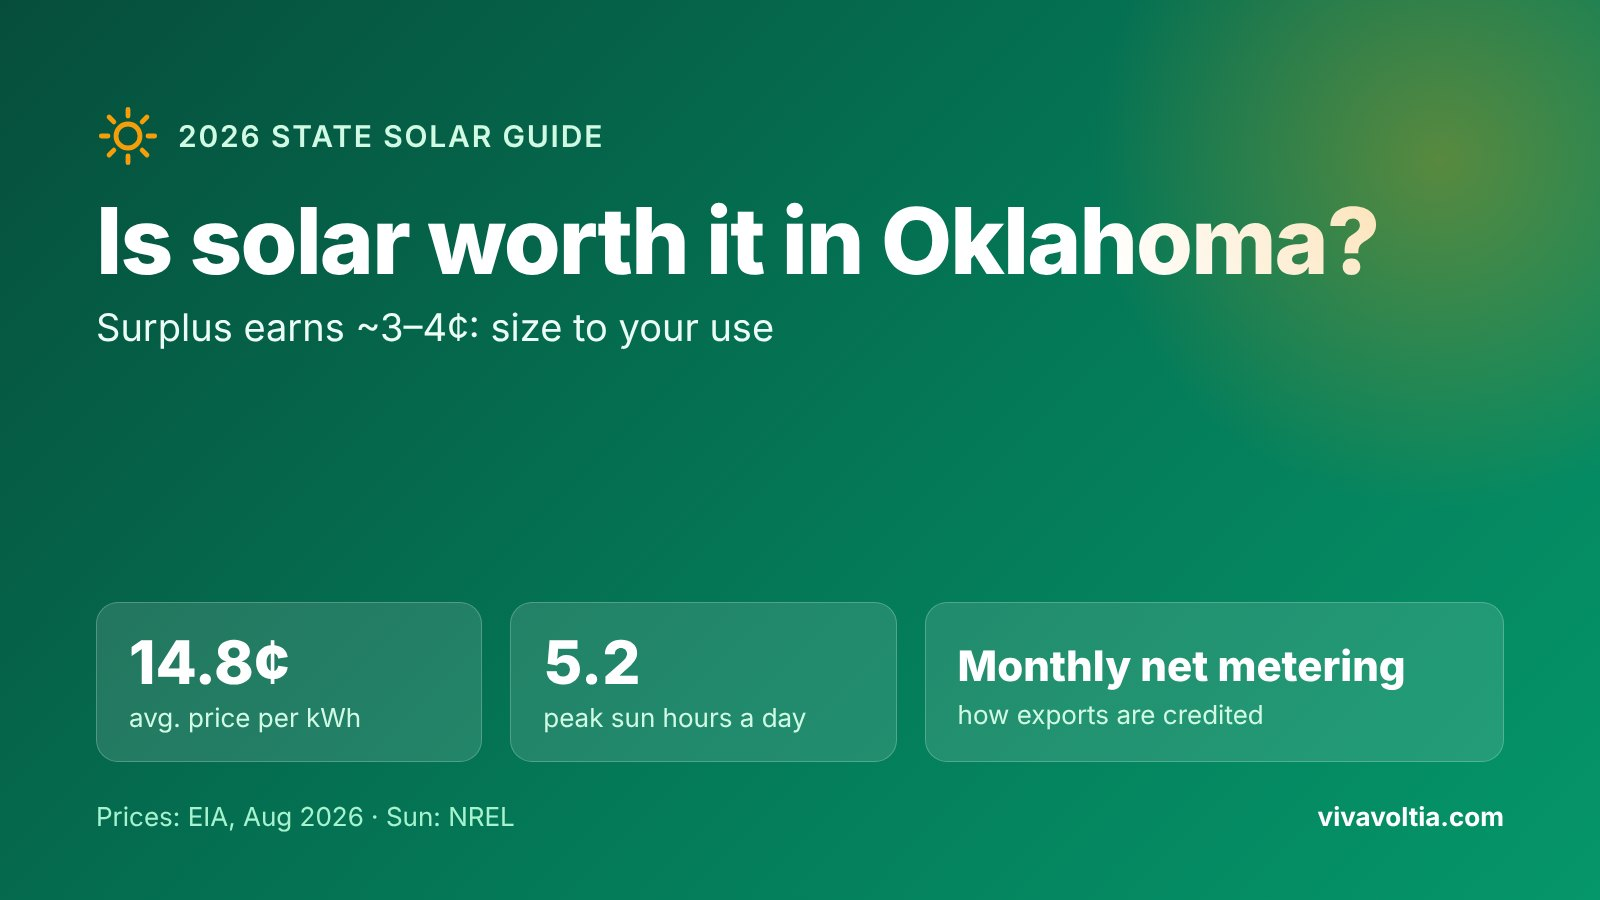
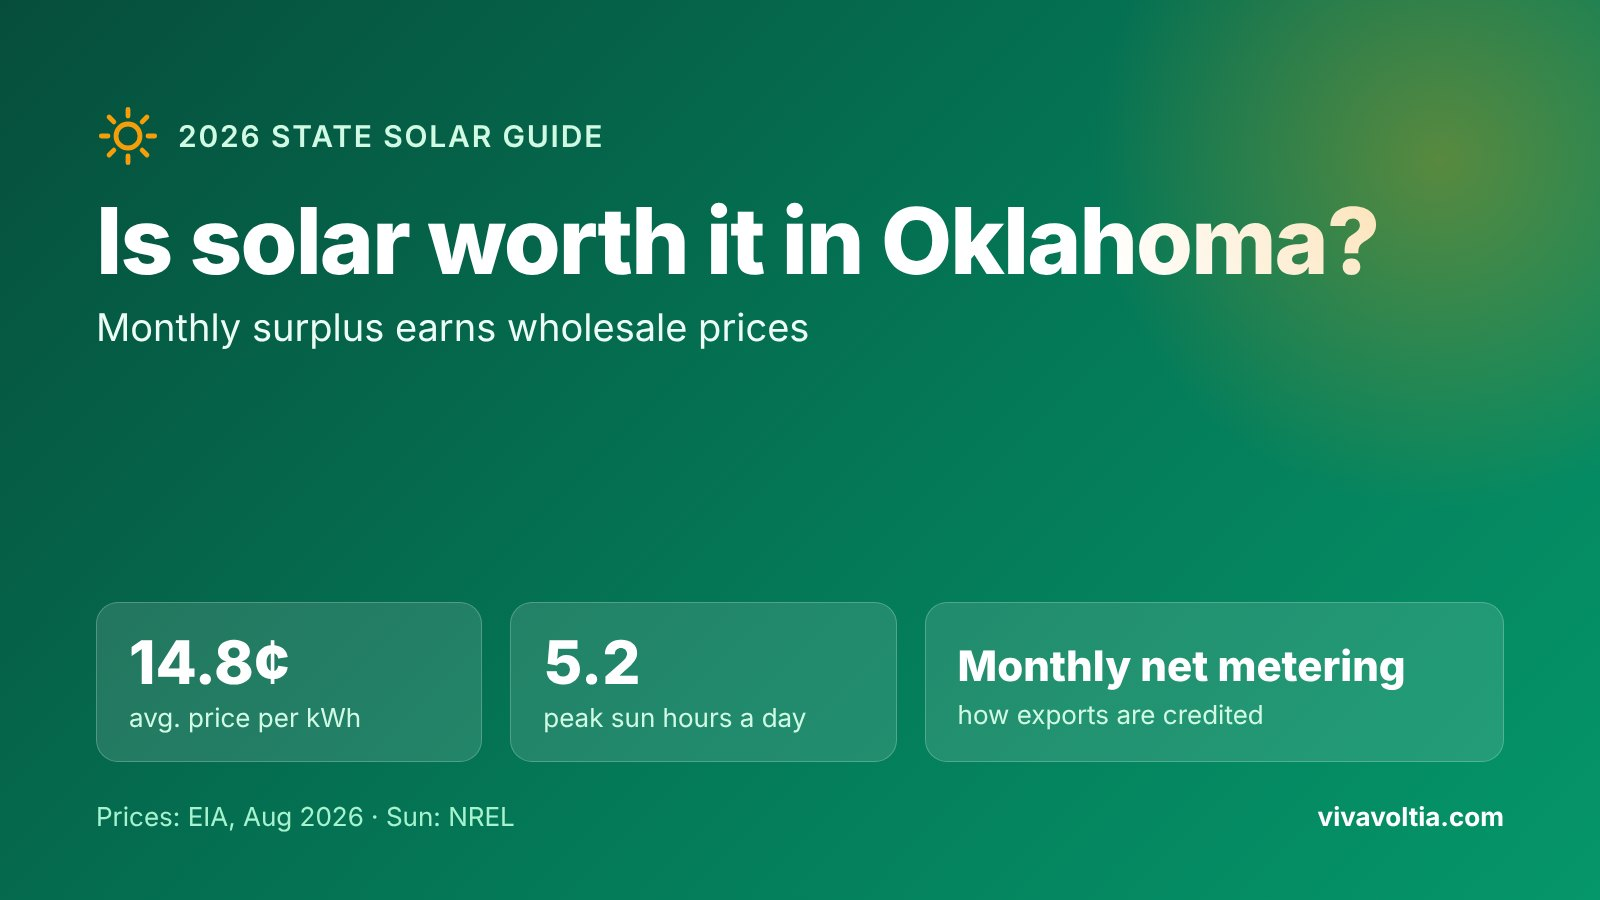
State guides: verify OK, AL, ID figures against official tariffs and orders
Idaho: Schedule 6 rates and Order 36785 terms (40% cap, effective Oct 2025,
frozen until 2028). Alabama: Rate PAE April 2026 prices (4.2c average).
Oklahoma: describe surplus credit as monthly wholesale-based avoided cost.

Claude-Session: https://claude.ai/code/session_016bTKu1uezcBbYBAuuHwazr

Changed region(s): [[0.0625, 0.3422, 0.5, 0.4044]]

diff --git a/content/articles/is-solar-worth-it-oklahoma.html b/content/articles/is-solar-worth-it-oklahoma.html
@@ -7,7 +7,7 @@ keyword: is solar worth it in Oklahoma
 category: costs
 state_code: OK
 payback: 11-13
-state_policy: Monthly net metering; surplus at avoided cost (~3–4¢)
+state_policy: Monthly net metering; surplus at wholesale avoided cost
 published: 2026-11-08
 updated: 2026-11-08
 order: 4
@@ -15,7 +15,7 @@ image: state-oklahoma.jpg
 image_alt: Oklahoma solar at a glance: 14.8 cents per kWh, about 5.2 peak sun hours, monthly net metering with surplus bought at avoided cost
 takeaway: Oklahoma's average residential price was about 14.8¢/kWh in August 2026, below the US average, but the state gets about 5.2 peak sun hours a day.
 takeaway: OG&E and PSO net solar against your use over each monthly billing period, so most of your solar is worth the full retail rate.
-takeaway: Solar left over at the end of the month is bought at the utility's avoided cost, roughly 3–4¢ per kWh, so oversizing does not pay.
+takeaway: Solar left over at the end of the month earns the utility's avoided cost, a wholesale-based price that changes monthly and is usually a few cents per kWh, so oversizing does not pay.
 takeaway: A system sized to your use typically pays back in about 11–13 years in 2026, with no state tax credit or federal credit.
 source: EIA – Electric Power Monthly, average price by state | https://www.eia.gov/electricity/monthly/epm_table_grapher.php?t=epmt_5_6_a
 source: OG&E – Net Energy Billing Option (NEBO) tariff | https://www.oge.com/documents/d/portal/70-10-nebo-net-energy-billing-option-stamped-approved-20200101-update-pdf
@@ -36,7 +36,7 @@ related: is-solar-worth-it-texas
         <tr><td>Peak sun hours (statewide average)</td><td>About 5.2 per day</td></tr>
         <tr><td>Typical yearly output per kW of panels</td><td>About 1,500 kWh</td></tr>
         <tr><td>Net metering</td><td>Monthly netting at OG&amp;E and PSO; solar up to your monthly use offsets retail energy charges</td></tr>
-        <tr><td>Monthly surplus</td><td>Bought or credited at the utility's avoided cost, roughly 3–4¢/kWh</td></tr>
+        <tr><td>Monthly surplus</td><td>Credited at the utility's avoided cost, a monthly wholesale-based price, usually a few cents per kWh</td></tr>
         <tr><td>State incentives</td><td>No state tax credit or rebate for home solar</td></tr>
     </tbody>
     <caption>Prices from EIA; sun hours rounded from NREL solar resource data; net metering terms from the OG&amp;E NEBO tariff. Avoided-cost rates are updated by each utility.</caption>
@@ -47,13 +47,13 @@ related: is-solar-worth-it-texas
 <p>Oklahoma Corporation Commission rules require utilities such as OG&amp;E and Public Service Company of Oklahoma (PSO) to offer net metering for small systems. The key detail is the monthly window:</p>
 <ul>
     <li><strong>Within the month,</strong> the solar you export is netted against the power you buy. If your panels produce less than you use over the billing period, every solar kWh effectively saves the retail energy rate, even if you exported it at noon and bought it back at night.</li>
-    <li><strong>Surplus at the end of the month</strong> is credited or paid at the utility's avoided cost, which is tied to wholesale power prices. In 2026 that has been roughly 3–4¢ per kWh, far below retail.</li>
+    <li><strong>Surplus at the end of the month</strong> is credited in dollars at the utility's avoided cost. It is based on wholesale power prices, changes every month, and is usually a few cents per kWh, far below retail. At OG&amp;E, unused credits carry forward and are paid out after 24 months.</li>
     <li><strong>Fixed charges</strong> such as the monthly customer charge are not reduced by solar.</li>
 </ul>
 <p>Rural electric cooperatives have their own terms, so co-op members should check their tariff. Oklahoma law also lets utilities ask regulators for a separate rate class for new solar customers. OG&amp;E proposed a demand charge for solar homes in 2015 that was not approved, but it is worth watching future rate cases. Read <a href="what-is-net-metering.html">how net metering works</a> for the basics.</p>
 
 <h2>Is Solar Worth It in Oklahoma? A 2026 Example</h2>
-<p>We modeled a home using 900 kWh a month at Oklahoma's average price, 5.2 sun hours, $2.85 per watt, and a 3.5¢ avoided-cost rate for monthly surplus.</p>
+<p>We modeled a home using 900 kWh a month at Oklahoma's average price, 5.2 sun hours, $2.85 per watt, and a conservative 3.5¢ avoided-cost rate for monthly surplus.</p>
 <div class="table-wrap">
 <table>
     <thead><tr><th>Scenario</th><th>Net cost</th><th>Payback</th><th>25-year net savings</th></tr></thead>
@@ -72,7 +72,7 @@ related: is-solar-worth-it-texas
 
 <section class="faq">
 <h2>Frequently Asked Questions</h2>
-<details><summary>Does Oklahoma have net metering?</summary><p>Yes. OG&amp;E and PSO net your solar against your use over each monthly billing period. Surplus left at the end of the month earns the utility's avoided cost, roughly 3–4¢ per kWh.</p></details>
+<details><summary>Does Oklahoma have net metering?</summary><p>Yes. OG&amp;E and PSO net your solar against your use over each monthly billing period. Surplus left at the end of the month earns the utility's avoided cost, a wholesale-based price that is usually a few cents per kWh.</p></details>
 <details><summary>Are there solar tax credits in Oklahoma?</summary><p>There is no state tax credit or rebate for residential solar in 2026, and the 30% federal homeowner credit ended for systems installed after December 31, 2025.</p></details>
 <details><summary>How long does solar take to pay off in Oklahoma?</summary><p>About 11–13 years for a purchased system sized to your use, based on 2026 prices and Oklahoma's average electricity rate.</p></details>
 <details><summary>Should I oversize my system in Oklahoma?</summary><p>No. Solar beyond your monthly use is worth only the avoided-cost rate, so extra panels add cost but little savings.</p></details>

diff --git a/content/articles/is-solar-worth-it-idaho.html b/content/articles/is-solar-worth-it-idaho.html
@@ -15,11 +15,11 @@ image: state-idaho.jpg
 image_alt: Idaho solar at a glance: 13.4 cents per kWh, about 4.8 peak sun hours, Idaho Power net billing with export credits from about 3 to 16 cents
 takeaway: Idaho's average residential price was about 13.4¢/kWh in August 2026, among the lowest in the country.
 takeaway: New Idaho Power solar customers are on net billing: exports earn about 15.7¢ on summer peak hours but about 3¢ the rest of the year.
-takeaway: Regulators cut those export credits by about 31% in September 2025 and paused further updates until 2028.
+takeaway: Regulators cut most export credits by about 40% from October 2025 and froze the rates until 2028.
 takeaway: Idaho's state income tax deduction (up to $5,000 a year for four years) helps a little; typical payback is about 14–20 years.
 source: EIA – Electric Power Monthly, average price by state | https://www.eia.gov/electricity/monthly/epm_table_grapher.php?t=epmt_5_6_a
 source: Idaho PUC – Order No. 36785 (Idaho Power export credit rate) | https://puc.idaho.gov/Fileroom/PublicFiles/ELEC/IPC/IPCE2515/OrdNotc/20250930Final_Order_No_36785.pdf
-source: Idaho Power – Customer generation | https://www.idahopower.com/customergeneration
+source: Idaho Power – Schedule 6, Residential On-Site Generation tariff | https://docs.idahopower.com/pdfs/aboutus/ratesregulatory/tariffs/313.pdf
 source: Idaho Code 63-3022C – Residential alternative energy tax deduction | https://legislature.idaho.gov/statutesrules/idstat/title63/t63ch30/sect63-3022c/
 source: Idaho PUC – Rocky Mountain Power on-site generation proposal (Nov 2025) | https://puc.idaho.gov/Fileroom/PublicFiles/Press/20251117Rocky%20Mountain%20Power%201117%20Release.pdf.pdf
 source: NREL – PVWatts Calculator | https://pvwatts.nrel.gov/
@@ -48,7 +48,7 @@ related: is-solar-worth-it-oregon
 <h2>How Net Billing Works in Idaho</h2>
 <p>Idaho has no statewide net metering law; each utility's rules are set by the Idaho Public Utilities Commission (IPUC).</p>
 <ul>
-    <li><strong>Idaho Power</strong> (Boise, Treasure Valley, Magic Valley). Since 2024, new solar customers use net billing. Solar you use at home saves the full rate, and exports earn a dollar credit that depends on season and time. In September 2025 the IPUC lowered those credits by about 31%, about half the cut Idaho Power had asked for, and paused annual updates until 2028. Exports on summer on-peak hours earn about 15.7¢, but most midday and non-summer exports earn about 3¢. Customers who installed by December 20, 2019 keep legacy net metering.</li>
+    <li><strong>Idaho Power</strong> (Boise, Treasure Valley, Magic Valley). Since 2024, new solar customers use net billing. Solar you use at home saves the full rate, and exports earn a dollar credit that depends on season and time. In a September 2025 order, effective October 1, the IPUC limited the drop in the energy part of the credit to 40%, less than Idaho Power had asked for, and froze the rates until 2028. Exports during summer on-peak hours (3 to 11 p.m., Monday through Saturday, June through September) earn about 15.7¢, but most midday and non-summer exports earn about 3¢. Unused credits carry forward in dollars. Customers who installed by December 20, 2019 keep legacy net metering through 2045.</li>
     <li><strong>Rocky Mountain Power</strong> (East Idaho). In late 2025 it asked the IPUC to move new customers to a time-varying export credit averaging about 4¢ per kWh. Check the current status before you buy.</li>
     <li><strong>Avista</strong> (North Idaho) and co-ops have their own terms, so check your utility's current tariff.</li>
 </ul>
@@ -73,8 +73,8 @@ related: is-solar-worth-it-oregon
 
 <section class="faq">
 <h2>Frequently Asked Questions</h2>
-<details><summary>Does Idaho have net metering?</summary><p>Not for new Idaho Power customers. Since 2024 they are on net billing, with export credits that vary by season and time. Customers who installed by December 20, 2019 keep legacy net metering.</p></details>
-<details><summary>What does Idaho Power pay for solar exports?</summary><p>About 15.7¢ per kWh on summer on-peak hours, 3.4¢ on summer off-peak hours, and 2.9¢ the rest of the year, after the IPUC's September 2025 order. Updates are paused until 2028.</p></details>
+<details><summary>Does Idaho have net metering?</summary><p>Not for new Idaho Power customers. Since 2024 they are on net billing, with export credits that vary by season and time. Customers who installed by December 20, 2019 keep legacy net metering through 2045.</p></details>
+<details><summary>What does Idaho Power pay for solar exports?</summary><p>About 15.7¢ per kWh on summer on-peak hours, 3.4¢ on summer off-peak hours, and 2.9¢ the rest of the year, under the rates in effect since October 2025. They are frozen until 2028.</p></details>
 <details><summary>Is there an Idaho solar tax incentive?</summary><p>Yes. Idaho Code 63-3022C allows a state income tax deduction of 40% of the cost in the first year and 20% in each of the next three years, up to $5,000 a year. It is a deduction, not a credit, so it saves a few hundred dollars a year.</p></details>
 <details><summary>How long does solar take to pay off in Idaho?</summary><p>About 14–16 years for a system sized for self-use, and about 20 years for one that covers all your use.</p></details>
 </section>

diff --git a/content/articles/is-solar-worth-it-alabama.html b/content/articles/is-solar-worth-it-alabama.html
@@ -37,7 +37,7 @@ related: is-solar-worth-it-georgia
         <tr><td>Peak sun hours (statewide average)</td><td>About 4.8 per day</td></tr>
         <tr><td>Typical yearly output per kW of panels</td><td>About 1,400 kWh</td></tr>
         <tr><td>Net metering</td><td>None statewide</td></tr>
-        <tr><td>Export rate (Alabama Power)</td><td>Avoided cost under Rate PAE, roughly 3.5–5.5¢/kWh by season and time</td></tr>
+        <tr><td>Export rate (Alabama Power)</td><td>Avoided cost under Rate PAE, about 3.5–5.5¢/kWh by season and time (April 2026 rates)</td></tr>
         <tr><td>Solar fee (Alabama Power)</td><td>$5.41 per kW of system size per month</td></tr>
         <tr><td>State incentives</td><td>No state tax credit or rebate</td></tr>
     </tbody>
@@ -54,13 +54,13 @@ related: is-solar-worth-it-georgia
 </ul>
 
 <h2>Is Solar Worth It in Alabama? A 2026 Example</h2>
-<p>We modeled a home using 900 kWh a month at Alabama's average price, 4.8 sun hours, $2.85 per watt, a 4.5¢ export rate, and Alabama Power's $5.41/kW monthly fee.</p>
+<p>We modeled a home using 900 kWh a month at Alabama's average price, 4.8 sun hours, $2.85 per watt, a 4.2¢ average export rate (Rate PAE, 2026), and Alabama Power's $5.41/kW monthly fee.</p>
 <div class="table-wrap">
 <table>
     <thead><tr><th>Scenario</th><th>Net cost</th><th>Payback</th><th>25-year net savings</th></tr></thead>
     <tbody>
-        <tr><td>Full-size system (covers 100% of use)</td><td>About $22,000</td><td>More than 25 years</td><td>About break-even</td></tr>
-        <tr><td>Right-sized system (covers ~60% of use)</td><td>About $13,200</td><td>About 19 years</td><td>About $6,200</td></tr>
+        <tr><td>Full-size system (covers 100% of use)</td><td>About $22,000</td><td>More than 25 years</td><td>A net loss of about $1,200</td></tr>
+        <tr><td>Right-sized system (covers ~60% of use)</td><td>About $13,200</td><td>About 19 years</td><td>About $6,000</td></tr>
         <tr><td>Small system (covers ~40%, mostly used on site)</td><td>About $8,800</td><td>About 16.5 years</td><td>About $6,700</td></tr>
     </tbody>
     <caption>7.7 kW, 4.6 kW, and 3.1 kW systems in Alabama Power territory. The fee costs about $500 a year for the full-size system. Illustrative estimates with no federal credit.</caption>

diff --git a/tools/graphics/render_heroes.js b/tools/graphics/render_heroes.js
@@ -30,7 +30,7 @@ const STATES = [
   ['state-tennessee', 'Tennessee', '13.4¢', '4.6', 'No net metering (TVA)', 'Exports ~4¢ per kWh'],
   ['state-kentucky', 'Kentucky', '13.8¢', '4.3', 'Net metering, reduced exports', 'LG&E ~7.1¢ · KU ~7.5¢'],
   ['state-louisiana', 'Louisiana', '12.9¢', '4.9', 'Avoided-cost exports', '~2.8¢ per kWh outside New Orleans'],
-  ['state-oklahoma', 'Oklahoma', '14.8¢', '5.2', 'Monthly net metering', 'Surplus earns ~3–4¢: size to your use'],
+  ['state-oklahoma', 'Oklahoma', '14.8¢', '5.2', 'Monthly net metering', 'Monthly surplus earns wholesale prices'],
   ['state-iowa', 'Iowa', '17.1¢', '4.3', 'Inflow-outflow at retail', 'Credit locked 20 years before 2027'],
   ['state-alabama', 'Alabama', '16.3¢', '4.8', 'No net metering', 'Alabama Power fee: $5.41/kW a month'],
   ['state-idaho', 'Idaho', '13.4¢', '4.8', 'Net billing (Idaho Power)', 'Exports ~3¢, or ~15.7¢ on summer peak'],
